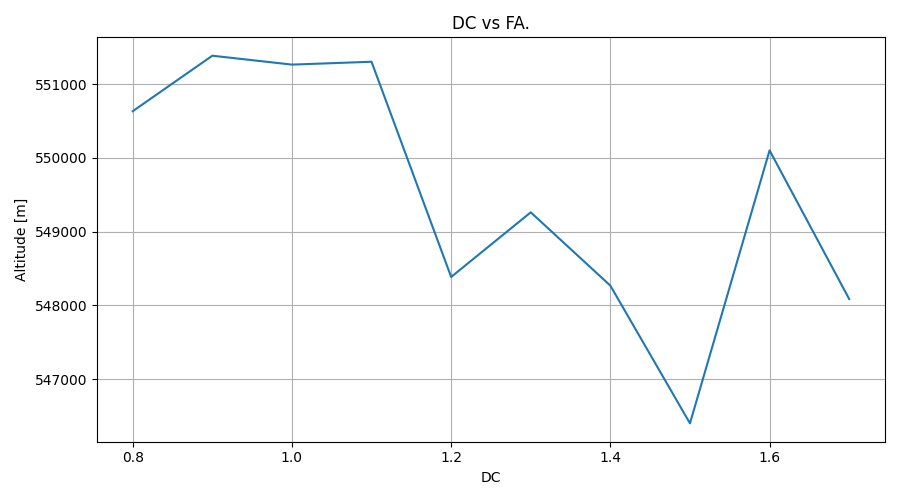
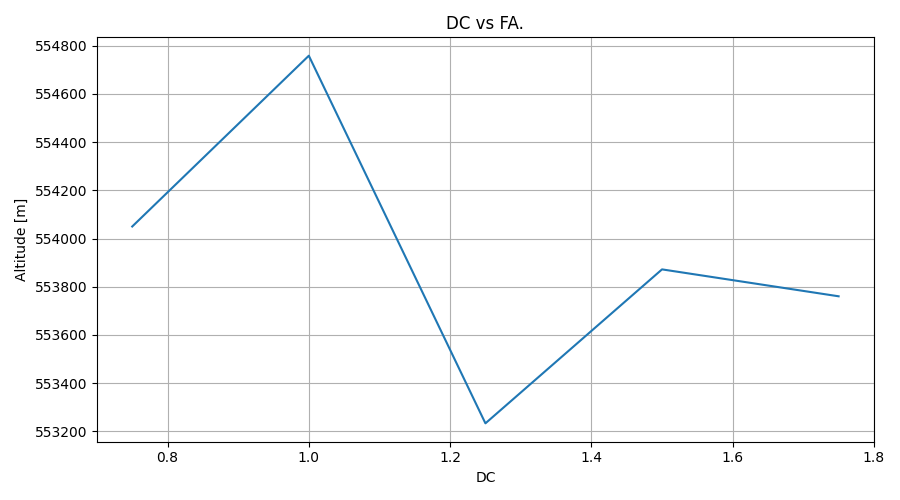
The red-browed finch (Neochmia temporalis) is an estrildid finch that inhabits the east coast of Australia. This species has also been introduced to French Polynesia. It is commonly found in temperate forest and dry savannah habitats. It may also be found in dry forest and mangrove habitats in tropi
The species is distinguished by the bright red stripe above the eye, and bright red rump. The rest of the body is grey, with olive wing coverts and collar. Juveniles do not have red brow marks, and lack olive colouration on the collar and wing coverts. The adults are 11–12 cm long.[2]

Taxonomy
The red-browed finch was first described by the English ornithologist John Latham in 1801 under the binomial name Fringilla temporalis.[3] It is one of four species in the genus Neochmia. Alternate names include red-browed firetail, Sydney waxbill and redbill.[4][5]

The species was once allied to genus Emblema.[5] There are three noted subspecies: the nominate species N. temporalis temporalis, in most of the east coast, and inland New South Wales and Victoria; N. temporalis minor, which is distinguished by a white breast, in northern New South Wales, and south-east of Australia, and N. temporalis loftyi in the south west corner of South Australia, although the latter is sometimes not listed as a subspecies, as the differences between it and the type species are relatively minor.[2]

Conservation status
[…]

diff --git a/Predicting_BC_2.0.py b/Predicting_BC_2.0.py
@@ -24,13 +24,13 @@ import sys
 TLE1_number = 7000
 TLE2_number = 7200
 
-Mass = 2
+Mass = 2.2
 
 reference_area = 0.011  # Average projection area of a 3U CubeSat
-drag_coefficient = 0.7
-step_size_Cd = 0.1
+drag_coefficient = 0.5
+step_size_Cd = 0.25
 
-itterations = 10
+itterations = 5
 
 radiation_pressure_coefficient = 1.2
 
@@ -213,6 +213,8 @@ body_settings = environment_setup.get_default_body_settings(
     bodies_to_create,
     global_frame_origin,
     global_frame_orientation)
+
+body_settings.get("Earth").atmosphere_settings = environment_setup.atmosphere.nrlmsise00()
 
 # Create system of selected celestial bodies
 bodies = environment_setup.create_system_of_bodies(body_settings)
@@ -449,24 +451,32 @@ for i in range(itterations):
 
     Final_altitude = dep_vars_array[-1,19]
     kepler_elements = dep_vars_array[:,4:10]
+    Semi_major_axis = kepler_elements[:,0]
     eccentricity = kepler_elements[:,1]
     inclination = np.rad2deg(kepler_elements[:,2])
     argument_of_periapsis = np.rad2deg(kepler_elements[:,3])
     raan = np.rad2deg(kepler_elements[:,4])
     true_anomaly = np.rad2deg(kepler_elements[:,5])
 
-    print(parsed_TLE2['Eccentricity'])
-    print(eccentricity[-1])
-    print(parsed_TLE2['Inclination'])
-    print(inclination[-1])
-    print(parsed_TLE2['Arg_Perigee'])
-    print(argument_of_periapsis[-1])
-    print(parsed_TLE2['RAAN'])
-    print(raan[-1])
-    print(parsed_TLE2['Mean_Anomaly'])
-    print(true_anomaly[-1])
+    Rp = Semi_major_axis*(1-eccentricity[-1])
+    Ra = Semi_major_axis*(1+eccentricity[-1])
 
-    MSE = (1/6) * ((float(parsed_TLE2['Eccentricity']) - eccentricity[-1])**2 + (float(parsed_TLE2['Inclination']) - inclination[-1])**2 + (float(parsed_TLE2['Arg_Perigee']) - argument_of_periapsis[-1])**2 + (float(parsed_TLE2['RAAN']) - raan[-1])**2 + (float(parsed_TLE2['Mean_Anomaly']) - true_anomaly[-1])**2 + (float(parsed_TLE2['Mean_Motion']) - dep_vars_array[-1,8])**2)
+    Height_apo = Ra/1000 - 6371
+    Height_peri = Rp/1000 - 6371
+
+    # Calculating the velocity
+    Vp = math.sqrt((3.9860044188*10**14*2*Ra[-1])/(Rp[-1]*(Ra[-1]+Rp[-1])))
+    Va = math.sqrt((3.9860044188*10**14*2*Rp[-1])/(Ra[-1]*(Ra[-1]+Rp[-1])))
+
+    print(parsed_TLE2['Height_Apo'], Height_apo[-1])
+    print(parsed_TLE2['Height_Peri'], Height_peri[-1])
+    print(parsed_TLE2['Vp'], Vp)
+    print(parsed_TLE2['Va'], Va)
+
+
+
+
+    MSE = (1/4) * ((Height_apo[-1] - parsed_TLE2['Height_Apo'])**2 + (Height_peri[-1] - parsed_TLE2['Height_Peri'])**2 + (Vp - parsed_TLE2['Vp'])**2 + (Va - parsed_TLE2['Va'])**2)
     print(MSE)
     Error.append(MSE)
     FA.append(Final_altitude)
